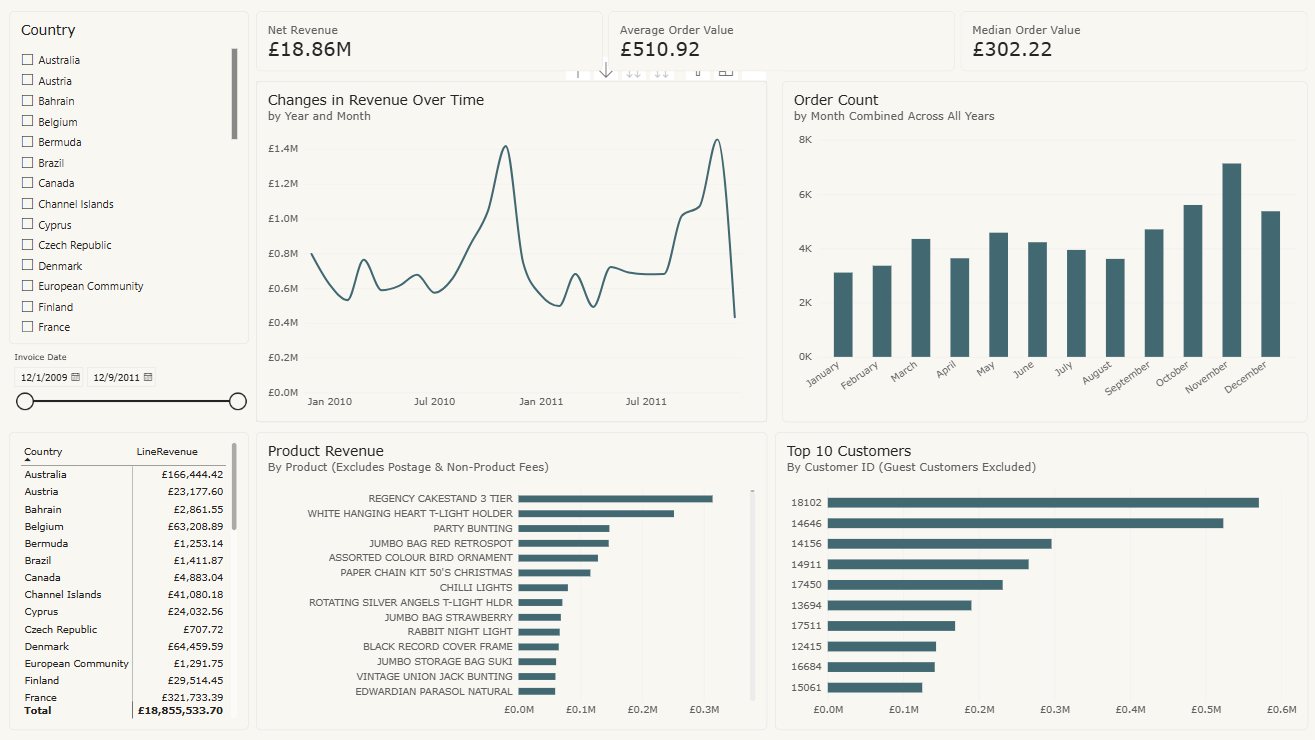
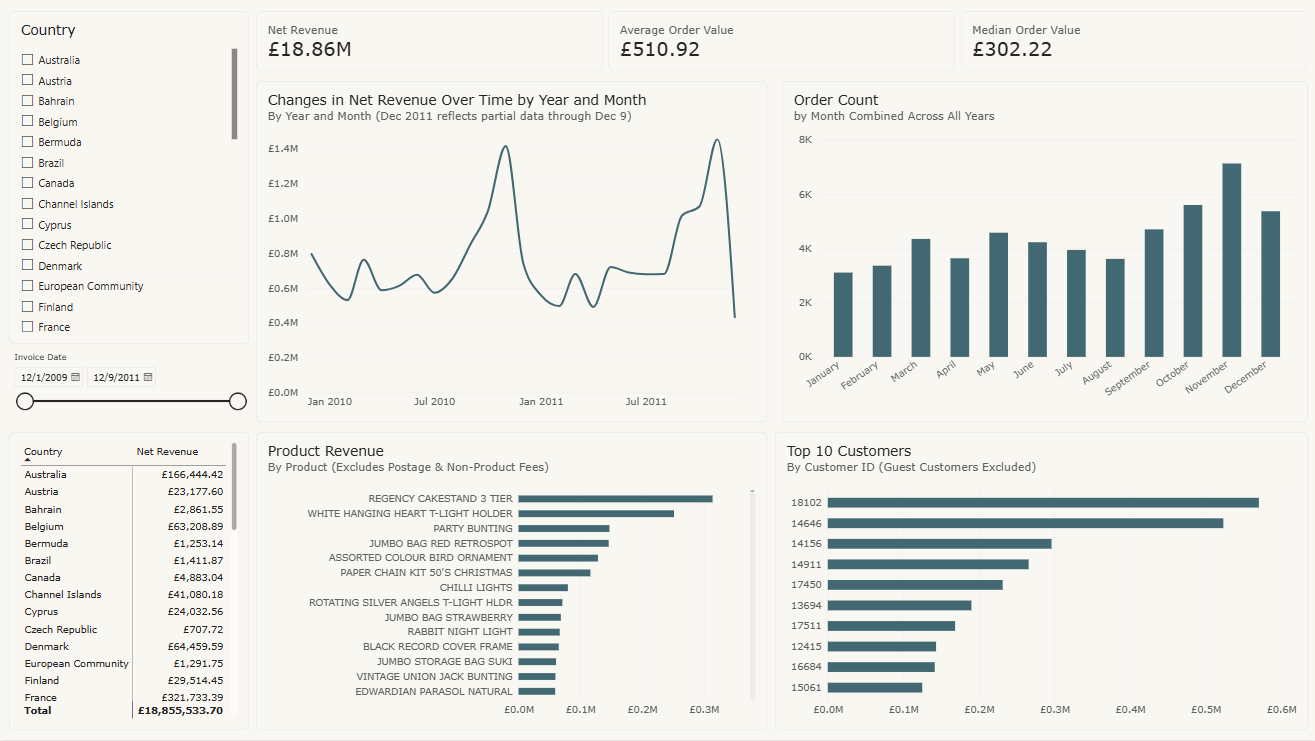
Updated File

diff --git a/README.md b/README.md
@@ -6,11 +6,11 @@ An end-to-end data analytics project using **Python**, **SQLite**, and **Power B
 
 ## Key Metrics & Findings
 
-* **Net Revenue (£18.86M):** Computed across all rows as $\text{Net Revenue} = \sum (\text{Quantity} \times \text{Price})$. Negative quantities from returns and cancellations remain included so reported revenue reflects realized net sales rather than gross volume.
+* **Net Revenue (£18.86M):** Computed across all rows as $\text{Net Revenue} = \sum (\text{Quantity} \times \text{Price})\$. Negative quantities from returns and cancellations remain included so reported revenue reflects realized net sales rather than gross volume.
 * **Order Value Skew (AOV £510.92 vs. MOV £302.22):** Average Order Value sits well above Median Order Value, indicating that high-value bulk or wholesale invoices pull the mean upward while a typical order sits closer to £302.
-* **Seasonal Peaks:** Order counts and revenue build steadily through autumn and peak in **November**, reflecting combined monthly order activity across all available years in the dataset—before tapering in December.
+* **Seasonal Peaks:** Order counts and Net Revenue build steadily through autumn and peak in **November**—reflecting combined monthly order activity across all available years in the dataset—before tapering in December (with December 2011 reflecting partial data through December 9).
 * **Geographic Concentration:** Sales are heavily weighted toward the United Kingdom, followed by secondary European and international markets such as Ireland, the Netherlands, Germany, and France.
-* **Guest vs. Registered Customers:** Orders with missing `Customer ID` values remain included in overall revenue, order counts, and order-value metrics, but are excluded from the **Top 10 Customers** visual so anonymous transactions are not misattributed to registered accounts.
+* **Guest vs. Registered Customers:** Orders with missing `Customer ID` values remain included in overall Net Revenue, order counts, and order-value metrics, but are excluded from the **Top 10 Customers** visual so anonymous transactions are not misattributed to registered accounts.
 
 ## Tech Stack
 
@@ -40,14 +40,14 @@ OnlineRetailIIUCI/
 
 * **Invoice-Level Aggregations:** Average Order Value and Median Order Value evaluate over `VALUES(invoices[Invoice])` (`AVERAGEX` / `MEDIANX`) so orders with multiple line items are not double-counted as separate orders.
 * **Product-Level Filtering:** Non-merchandise accounting and shipping items (such as `DOTCOM POSTAGE` and `POSTAGE`) are excluded at the visual level in the **Product Revenue** chart so top-product rankings highlight physical goods while keeping shipping fees intact in overall Net Revenue.
-* **Missing Customer Handling:** Blank `Customer ID` records are preserved in the model so total revenue and order counts stay accurate while Top 10 customer rankings remain restricted to identified customers.
-* **Scale & Formatting:** Monetary metrics are formatted in GBP (`£`), `InvoiceDate` uses the `Date` type to drive the date-range slicer and monthly trend visuals, and the revenue trend Y-axis is anchored at `£0.0M` to prevent visual distortion across filter selections.
+* **Missing Customer Handling:** Blank `Customer ID` records are preserved in the model so total Net Revenue and order counts stay accurate while Top 10 customer rankings remain restricted to identified customers.
+* **Scale & Formatting:** Monetary metrics are formatted in GBP (`£`), `InvoiceDate` uses the `Date` type to drive the date-range slicer and monthly trend visuals, and the Net Revenue trend Y-axis is anchored at `£0.0M` to prevent visual distortion across filter selections.
 
 ## Report Structure
 
 * **KPI Cards:** Net Revenue, Average Order Value, and Median Order Value.
-* **Filters & Country Breakdown:** Country slicer, `InvoiceDate` range slider, and a country revenue summary table.
-* **Trends & Seasonality:** Monthly revenue over time alongside combined multi-year monthly order counts.
+* **Filters & Country Breakdown:** Country slicer, `InvoiceDate` range slider, and a country Net Revenue summary table.
+* **Trends & Seasonality:** Monthly Net Revenue over time alongside combined multi-year monthly order counts.
 * **Products & Customers:** Horizontal bar visuals for **Product Revenue** by cleaned `Description` (excluding postage and non-product fees) and **Top 10 Customers** (excluding guest checkouts).
 
 ## Local Setup
